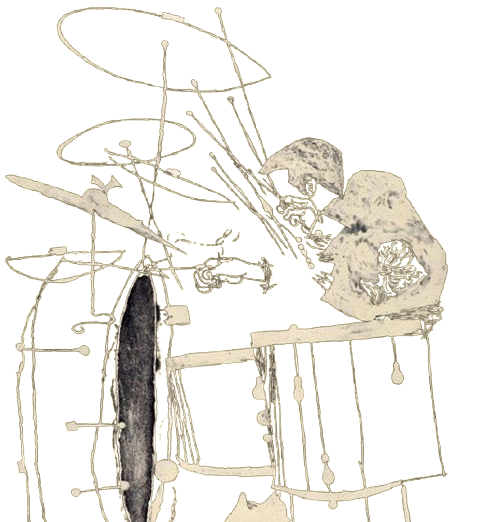
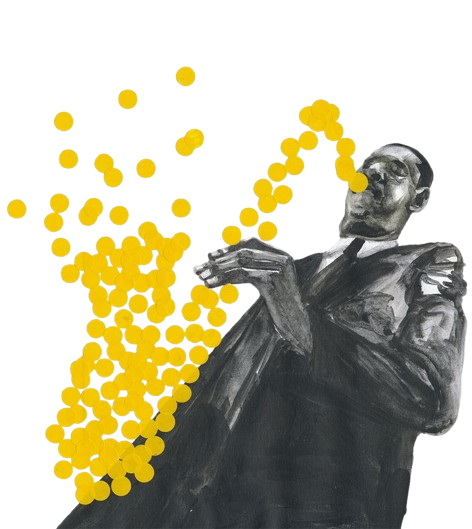
big responsive wrok + working on background image style

diff --git a/frontend/src/components/articles.css b/frontend/src/components/articles.css
@@ -4,7 +4,7 @@
   display: grid;
   grid-template-columns: 1fr 1fr;
   gap: 1.5rem;
-  max-width: 1200px;
+  max-width: 1000px;
   width: 95vw;
   margin-top: 8rem;
   align-items: start;
@@ -66,6 +66,7 @@
 
 .article_card.featured .text_article_desc {
   font-size: 1.2rem;
+  max-width: 80%;
 }
 
 /* Sidebar article styles */
@@ -87,14 +88,13 @@
   flex-direction: column;
   width: 100%;
   justify-content: center;
-  margin: 0rem 0rem;
   gap: 1.5rem;
 }
 
 .article_card.featured .text_article_desc {
   font-size: 1rem;
   border-top: rgb(101, 94, 94) 3px dotted;
-  border-bottom: rgb(122, 115, 115) 1px solid;
+  border-bottom: rgb(99, 94, 94) 2px solid;
   margin: 0 0.5rem;
   padding: 1rem 0;
   flex: 1;
@@ -150,7 +150,7 @@
   transition: box-shadow 0.35s ease, background-color 0.35s ease;
   will-change: transform;
   cursor: pointer;
-
+  background-color: var(--bg-article-card);
 }
 
 .article_card:hover {
@@ -177,9 +177,7 @@
 .article_desc {
 	display: flex;
   position: relative;
-  width: 98%;
-  justify-content: flex-end;
-	margin: 0.3rem 0.5rem;
+	margin-left: 1rem;
 	gap: 0.8rem;
 }
 .img_article_desc {
@@ -198,19 +196,14 @@
 	flex-shrink: 0;
 }
 
-/* .text_article_desc{
+.text_article_desc{
 	text-align: justify;
 	font-weight: var(--font-weight-body-bold);
 	font-family: var(--font-body);
-	border-top: grey 1px solid;
-	border-bottom: grey 1px solid;
-	flex: 0 0 55%;
-	margin-left: auto;
-	font-size: 0.9rem;
-	line-height: 1.3;
-  height: fit-content;
   padding: 0.5rem 0;
-} */
+  margin-left: 1rem;
+  max-width: 80%;
+}
 
 
 @media screen and (max-width: 1050px) {

diff --git a/frontend/src/components/menu/categoryPage.css b/frontend/src/components/menu/categoryPage.css
@@ -23,7 +23,16 @@
   width: fit-content;
 }
 
-
+body::before{
+  content: '';
+  position: absolute;
+  top: 0;
+  right: 0;
+  left: 0;
+  bottom: 0;
+  background-image: var(--bg-image);
+  filter: drop-shadow(16px 16px 20px rgba(218, 218, 218, 0.566)) invert(20%);
+}
 .category-title {
   font-family: var(--font-title);
   font-weight: var(--font-weight-title);
@@ -34,7 +43,6 @@
 
 .category-articles {
   position: relative;
-  margin-top: 10rem;
   width: 100%;
   list-style: none;
   padding: 0;

diff --git a/frontend/src/components/sommaire/sommaire.css b/frontend/src/components/sommaire/sommaire.css
@@ -5,8 +5,8 @@
 	align-items: start;
 	width: 100vw;
 	max-width: 100vw;
-	min-height: 150vh;
-	margin-top: 15rem;
+	min-height: 100vh;
+	margin-top: 7rem;
 
 }
 
@@ -41,14 +41,16 @@
 	color: rgb(80, 80, 73);
 }
 
-@media screen and (max-width: 1200px)
+@media screen and (max-width: 1300px)
 {
 	.sommaire {
 		justify-content: start;
 		align-items: start;	
 	}
+	.article_sommaire_link {
+		border-bottom: solid black 1px;
+	}
 	.sommaire--article_title {
-		font-family:var(--font-body);
 		font-size: 1rem;
 	}
 }

diff --git a/frontend/src/components/menu/nav.css b/frontend/src/components/menu/nav.css
@@ -1,7 +1,7 @@
 .categories-nav {
   width: 10%;
   position: absolute;
-  left: 2rem;
+  left: 1%;
   display: flex;
   flex-direction: column;
   justify-content: center;
@@ -29,7 +29,7 @@
   border-radius: 12px;
   background-color: rgba(221, 221, 221, 0.373);
   backdrop-filter: blur(8px);
-  width: 180px;
+  width: 130px;
   text-align: center;
   transition: border 0.3s ease, color 0.3s ease, background-color 0.3s ease, font-weight 0.3s ease;
    box-shadow: inset 0 -1px 0 0 grey;
@@ -79,7 +79,7 @@
 }
 
 /* Tablaaattes and medium size screen */
-@media screen and (max-width: 1200px) {
+@media screen and (max-width: 1300px) {
   /* Hide desktop nav on tablet/mobile */
   .categories-nav:not(.drawer-nav) {
     display: none;

diff --git a/frontend/src/App.css b/frontend/src/App.css
@@ -10,6 +10,7 @@
   --font-weight-body-bold: 600;
   --font-weight-title: 900;
   --font-weight-title-secondary: 800;
+  --bg-article-card: rgba(195, 188, 188, 0.642);
 }
 .App {
   text-align: center;
@@ -103,7 +104,7 @@ footer {
   }
 }
 
-@media screen and (max-width: 1200px){
+@media screen and (max-width: 1300px){
   .main-header {
     align-items: center;
   }

diff --git a/frontend/src/index.css b/frontend/src/index.css
@@ -14,7 +14,7 @@ body {
   line-height: 1.55;
   -webkit-font-smoothing: antialiased;
   -moz-osx-font-smoothing: grayscale;
-  background-color: rgba(206, 197, 197, 0.678);
+  background-color: rgba(206, 197, 197, 0.808);
   position: relative;
   --bg-image: url('./assets/background_mountain.png');
 }